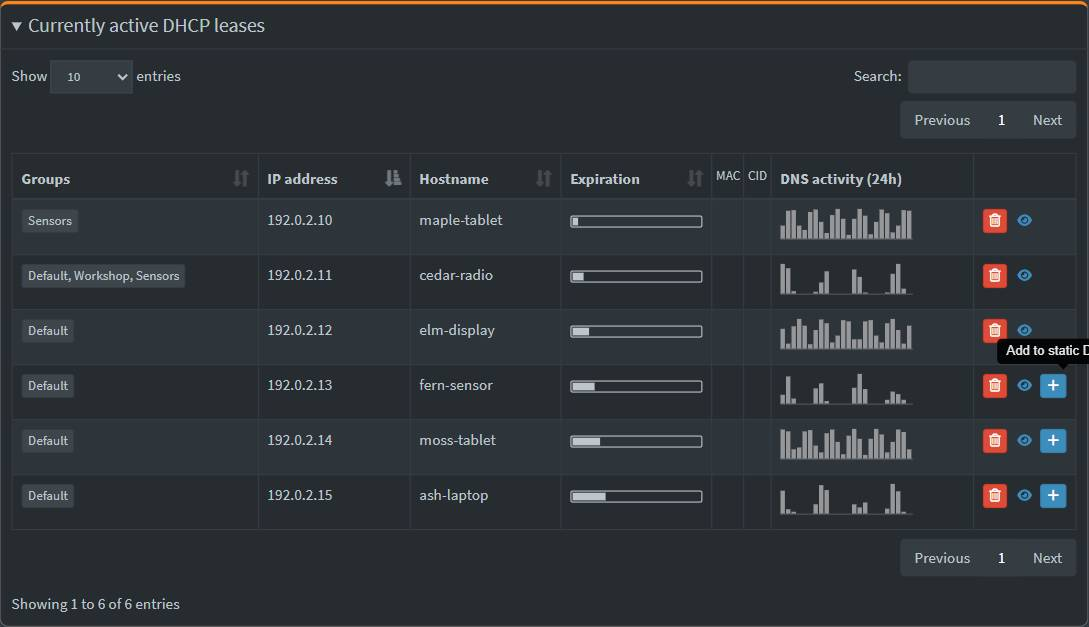
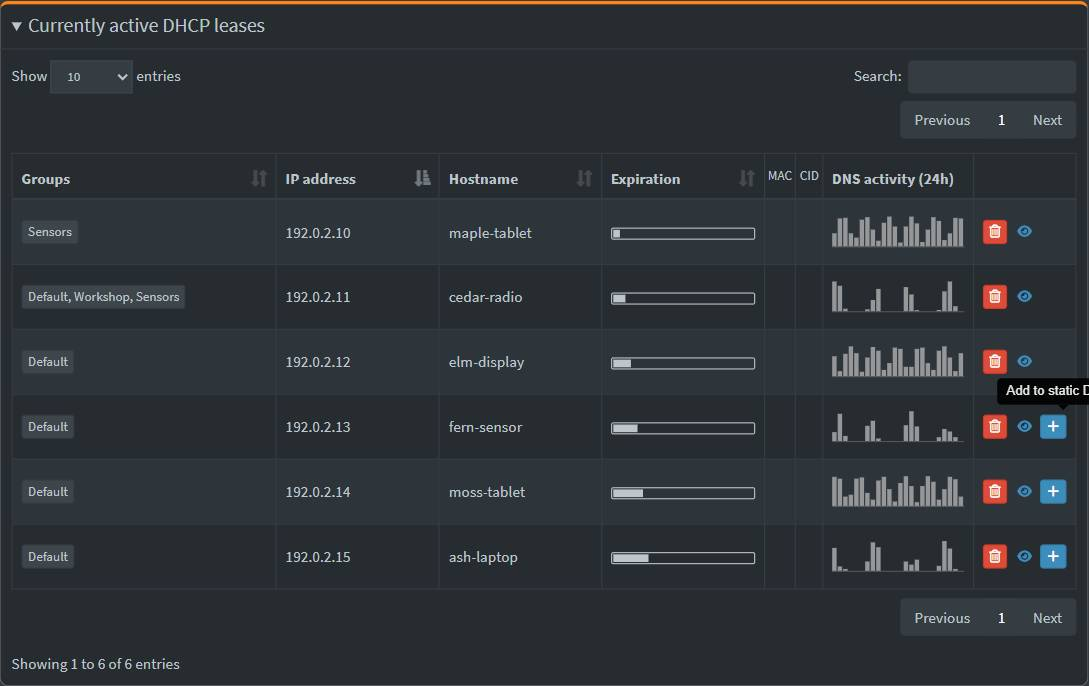
Support draggable DHCP columns, summarize renames, and label filtered query logs

diff --git a/README.md b/README.md
@@ -28,6 +28,8 @@ This project provides two independent patches for the Pi-hole v6 web interface. 
 
 ### Group repeated queries
 
+When you filter by one client, its hostname appears in bold beside **Recent Queries**.
+
 Select **Group** at the top of Recent Queries. Each row combines requests with the same domain, query type, and client IP. **Count** replaces reply time. It includes matching requests from all pages of the filtered results.
 
 The **Time** chart divides the full query range into 24 equal intervals, from oldest to newest. For a six-hour range, each bar covers 15 minutes. For a two-day range, each bar covers two hours. An empty slot means zero queries. Hover over a slot to see its UTC interval and count.
@@ -76,9 +78,11 @@ Under **Currently active DHCP leases**, tap a hostname to edit it. In either tab
 
 In **Expiration**, the outline represents the configured lease time. The fill shows the time left. Hover or focus the bar for Pi-hole's usual wording, such as "in 3 hours" or "Never".
 
+Drag a column header in either DHCP table to move it. Each table remembers its own layout in your browser. Hostname edits appear under **Save & Apply** as one change, such as **office-printer → studio-printer**.
+
 In active leases, **Expiration** sits beside **Hostname**. **MAC** and **CID** start collapsed. Tap either header label to show or hide that column’s values.
 
-The **DNS activity (24h)** column immediately after **Client ID** shows one hourly bar per active lease for the past day. Hover over a slot for its UTC interval and query count. A dash means Pi-hole has no per-IP history for that lease.
+The **DNS activity (24h)** column immediately after **Client ID** shows one hourly bar per active lease for the past day. Hover over a slot for its UTC interval and query count. An empty chart shows only the horizontal axis.
 
 In this example, the top three devices already have reservations. The bottom three have a **+** button.
 

diff --git a/patches/README.md b/patches/README.md
@@ -2,7 +2,7 @@
 
 | Patch | Files changed | Download |
 | --- | --- | --- |
-| [DHCP tables and headings](pihole-dhcp-table.patch) | `settings-dhcp.lp`, `scripts/js/settings-dhcp.js`, `scripts/js/footer.js` | [Raw DHCP patch](pihole-dhcp-table.patch?raw=true) |
+| [DHCP tables and headings](pihole-dhcp-table.patch) | `settings-dhcp.lp`, `scripts/js/settings-dhcp.js`, `scripts/js/footer.js`, `vendor/datatables/dataTables.colReorder.min.js` | [Raw DHCP patch](pihole-dhcp-table.patch?raw=true) |
 | [Query Log grouping and filters](pihole-query-log-grouping.patch) | `scripts/js/queries.js` | [Raw Query Log patch](pihole-query-log-grouping.patch?raw=true) |
 
 Use the **Download** column to get a patch from this revision. Apply patches from the Pi-hole web interface directory.

diff --git a/queries.md b/queries.md
@@ -4,6 +4,8 @@ Open **Query Log** from the Pi-hole sidebar. If you also use the DHCP patch, sel
 
 ## Group repeated queries
 
+When you filter by one client, its hostname appears in bold beside **Recent Queries**.
+
 Select **Group**. Each row combines requests with the same domain, query type, and client IP. **Count** replaces reply time. It includes matching requests from all pages of the filtered results.
 
 The **Time** chart divides the full query range into 24 equal intervals, from oldest to newest. For a six-hour range, each bar covers 15 minutes. For a two-day range, each bar covers two hours. An empty slot means zero queries. Hover over a slot to see its UTC interval and count.

diff --git a/prompts/manage.md b/prompts/manage.md
@@ -40,7 +40,7 @@ Get the selected patches
 
 2. Choose the patch file for each selected page.
    DHCP uses pihole-dhcp-table.patch. It changes settings-dhcp.lp,
-   scripts/js/settings-dhcp.js, and scripts/js/footer.js.
+   scripts/js/settings-dhcp.js, and scripts/js/footer.js. It adds vendor/datatables/dataTables.colReorder.min.js. Record whether that file existed before installation so undo can restore the original state.
    Query Log uses pihole-query-log-grouping.patch.
    It changes scripts/js/queries.js.
    Check the paths in each patch against the web interface directory.
